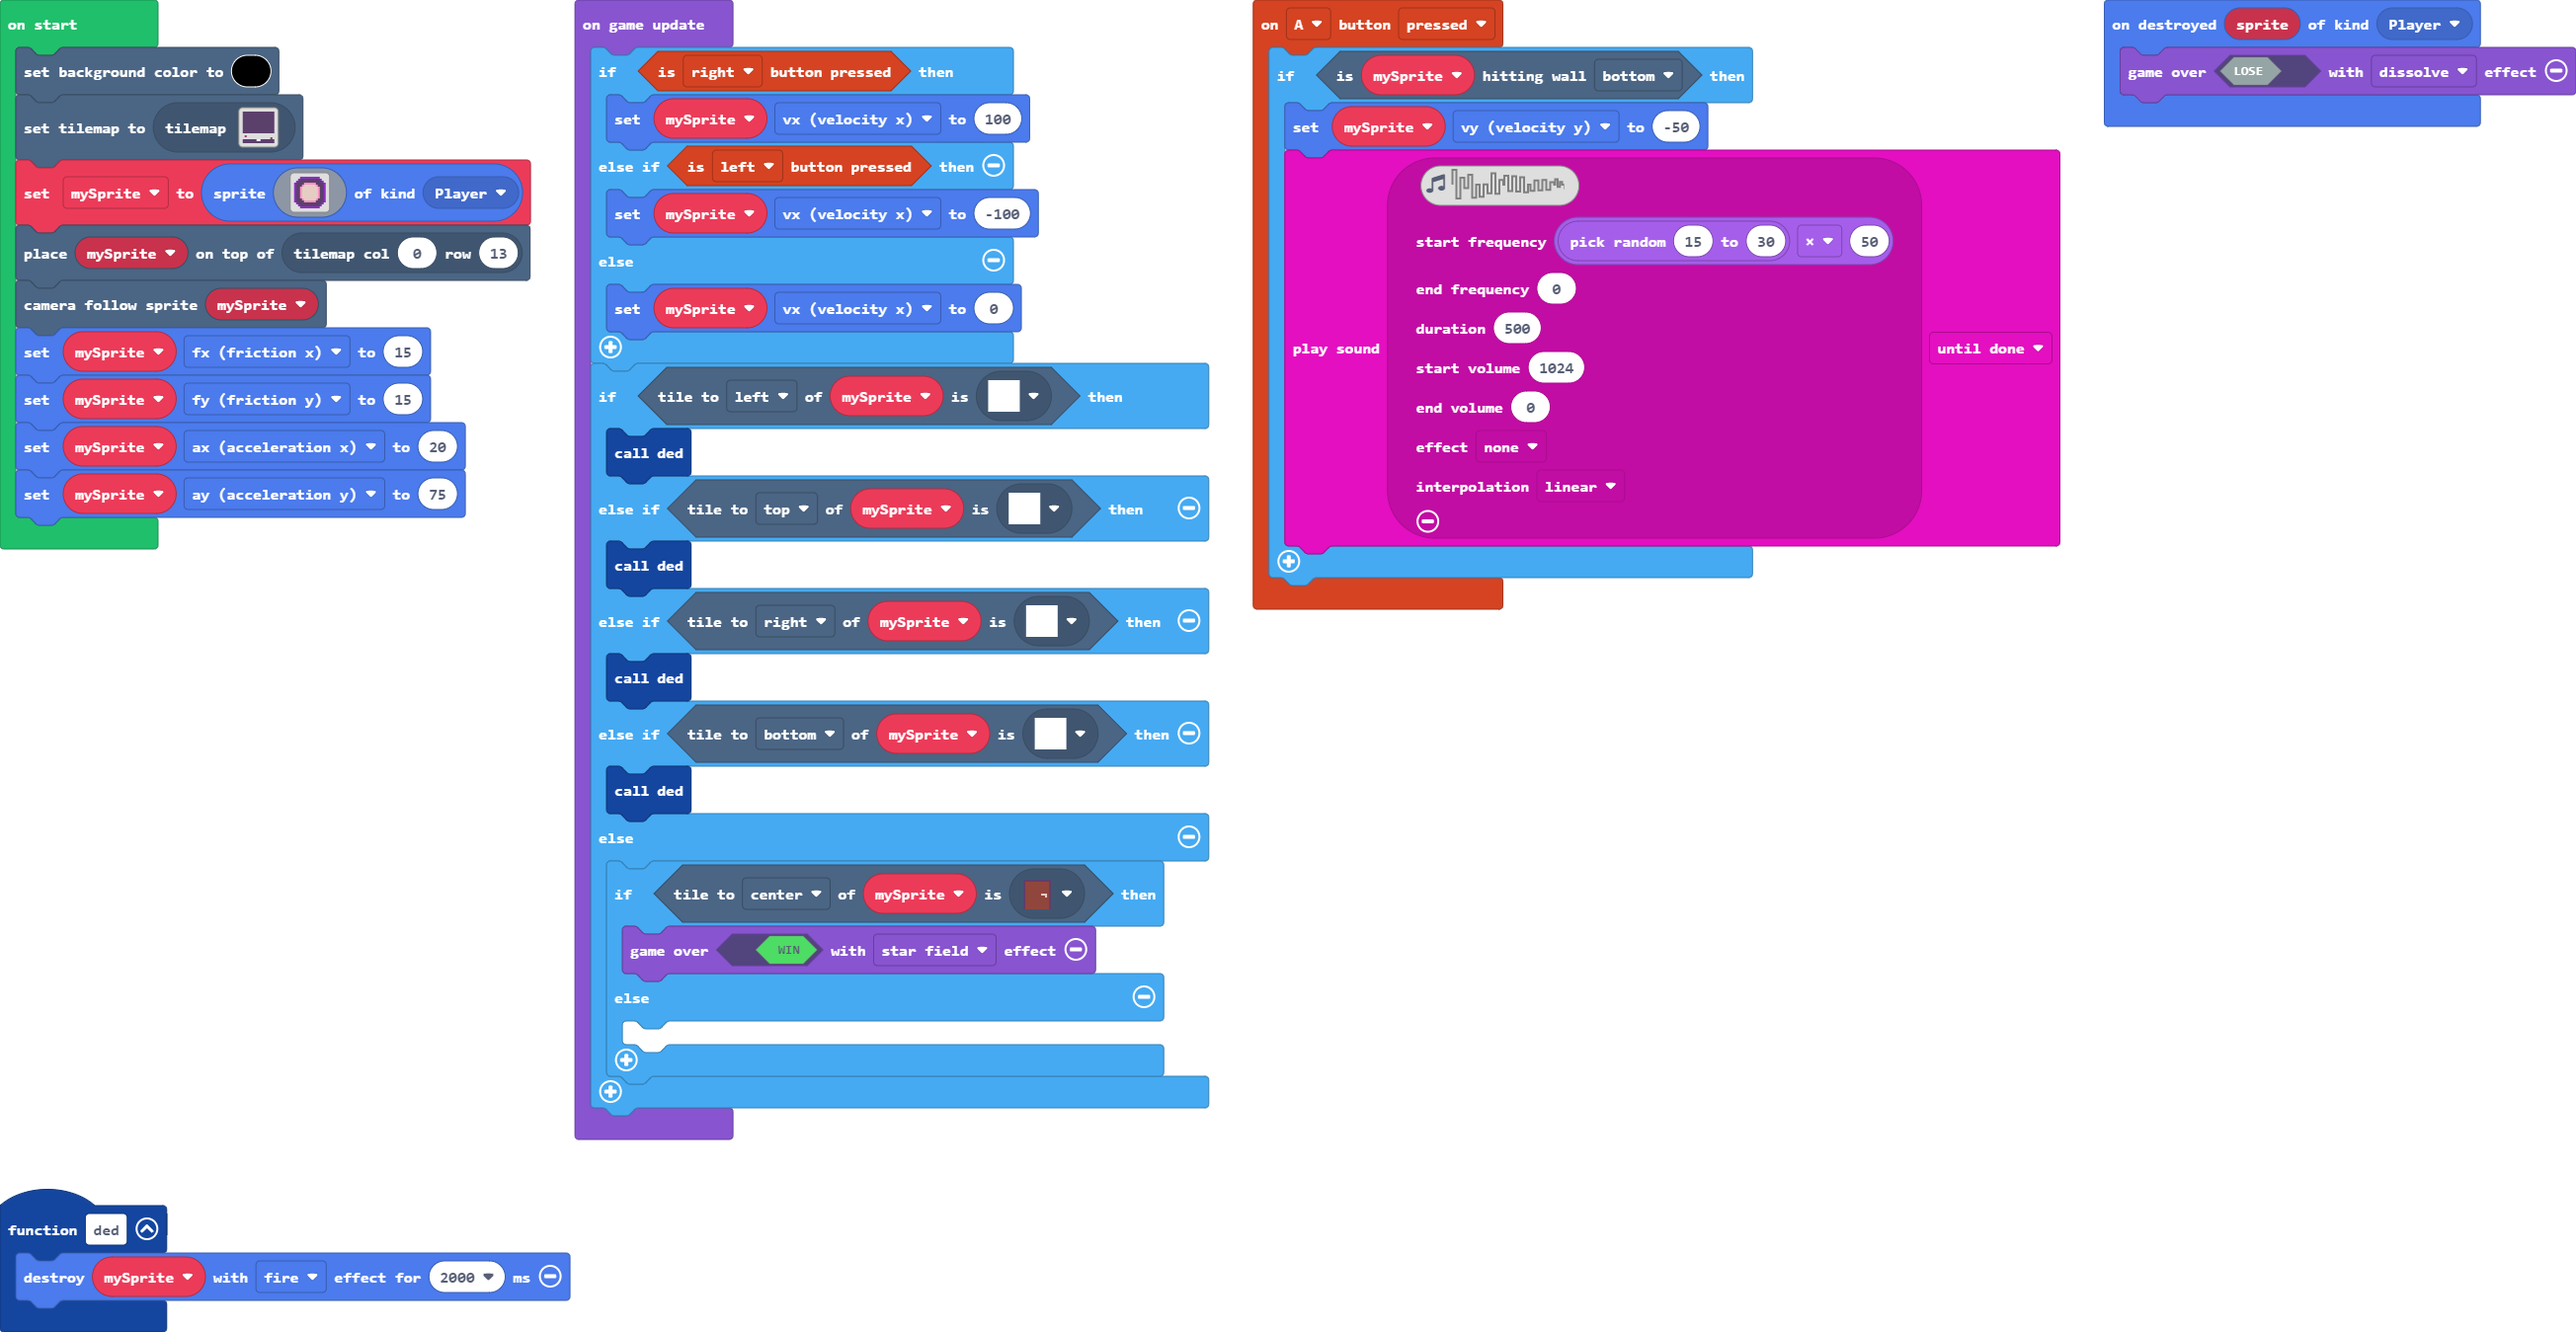
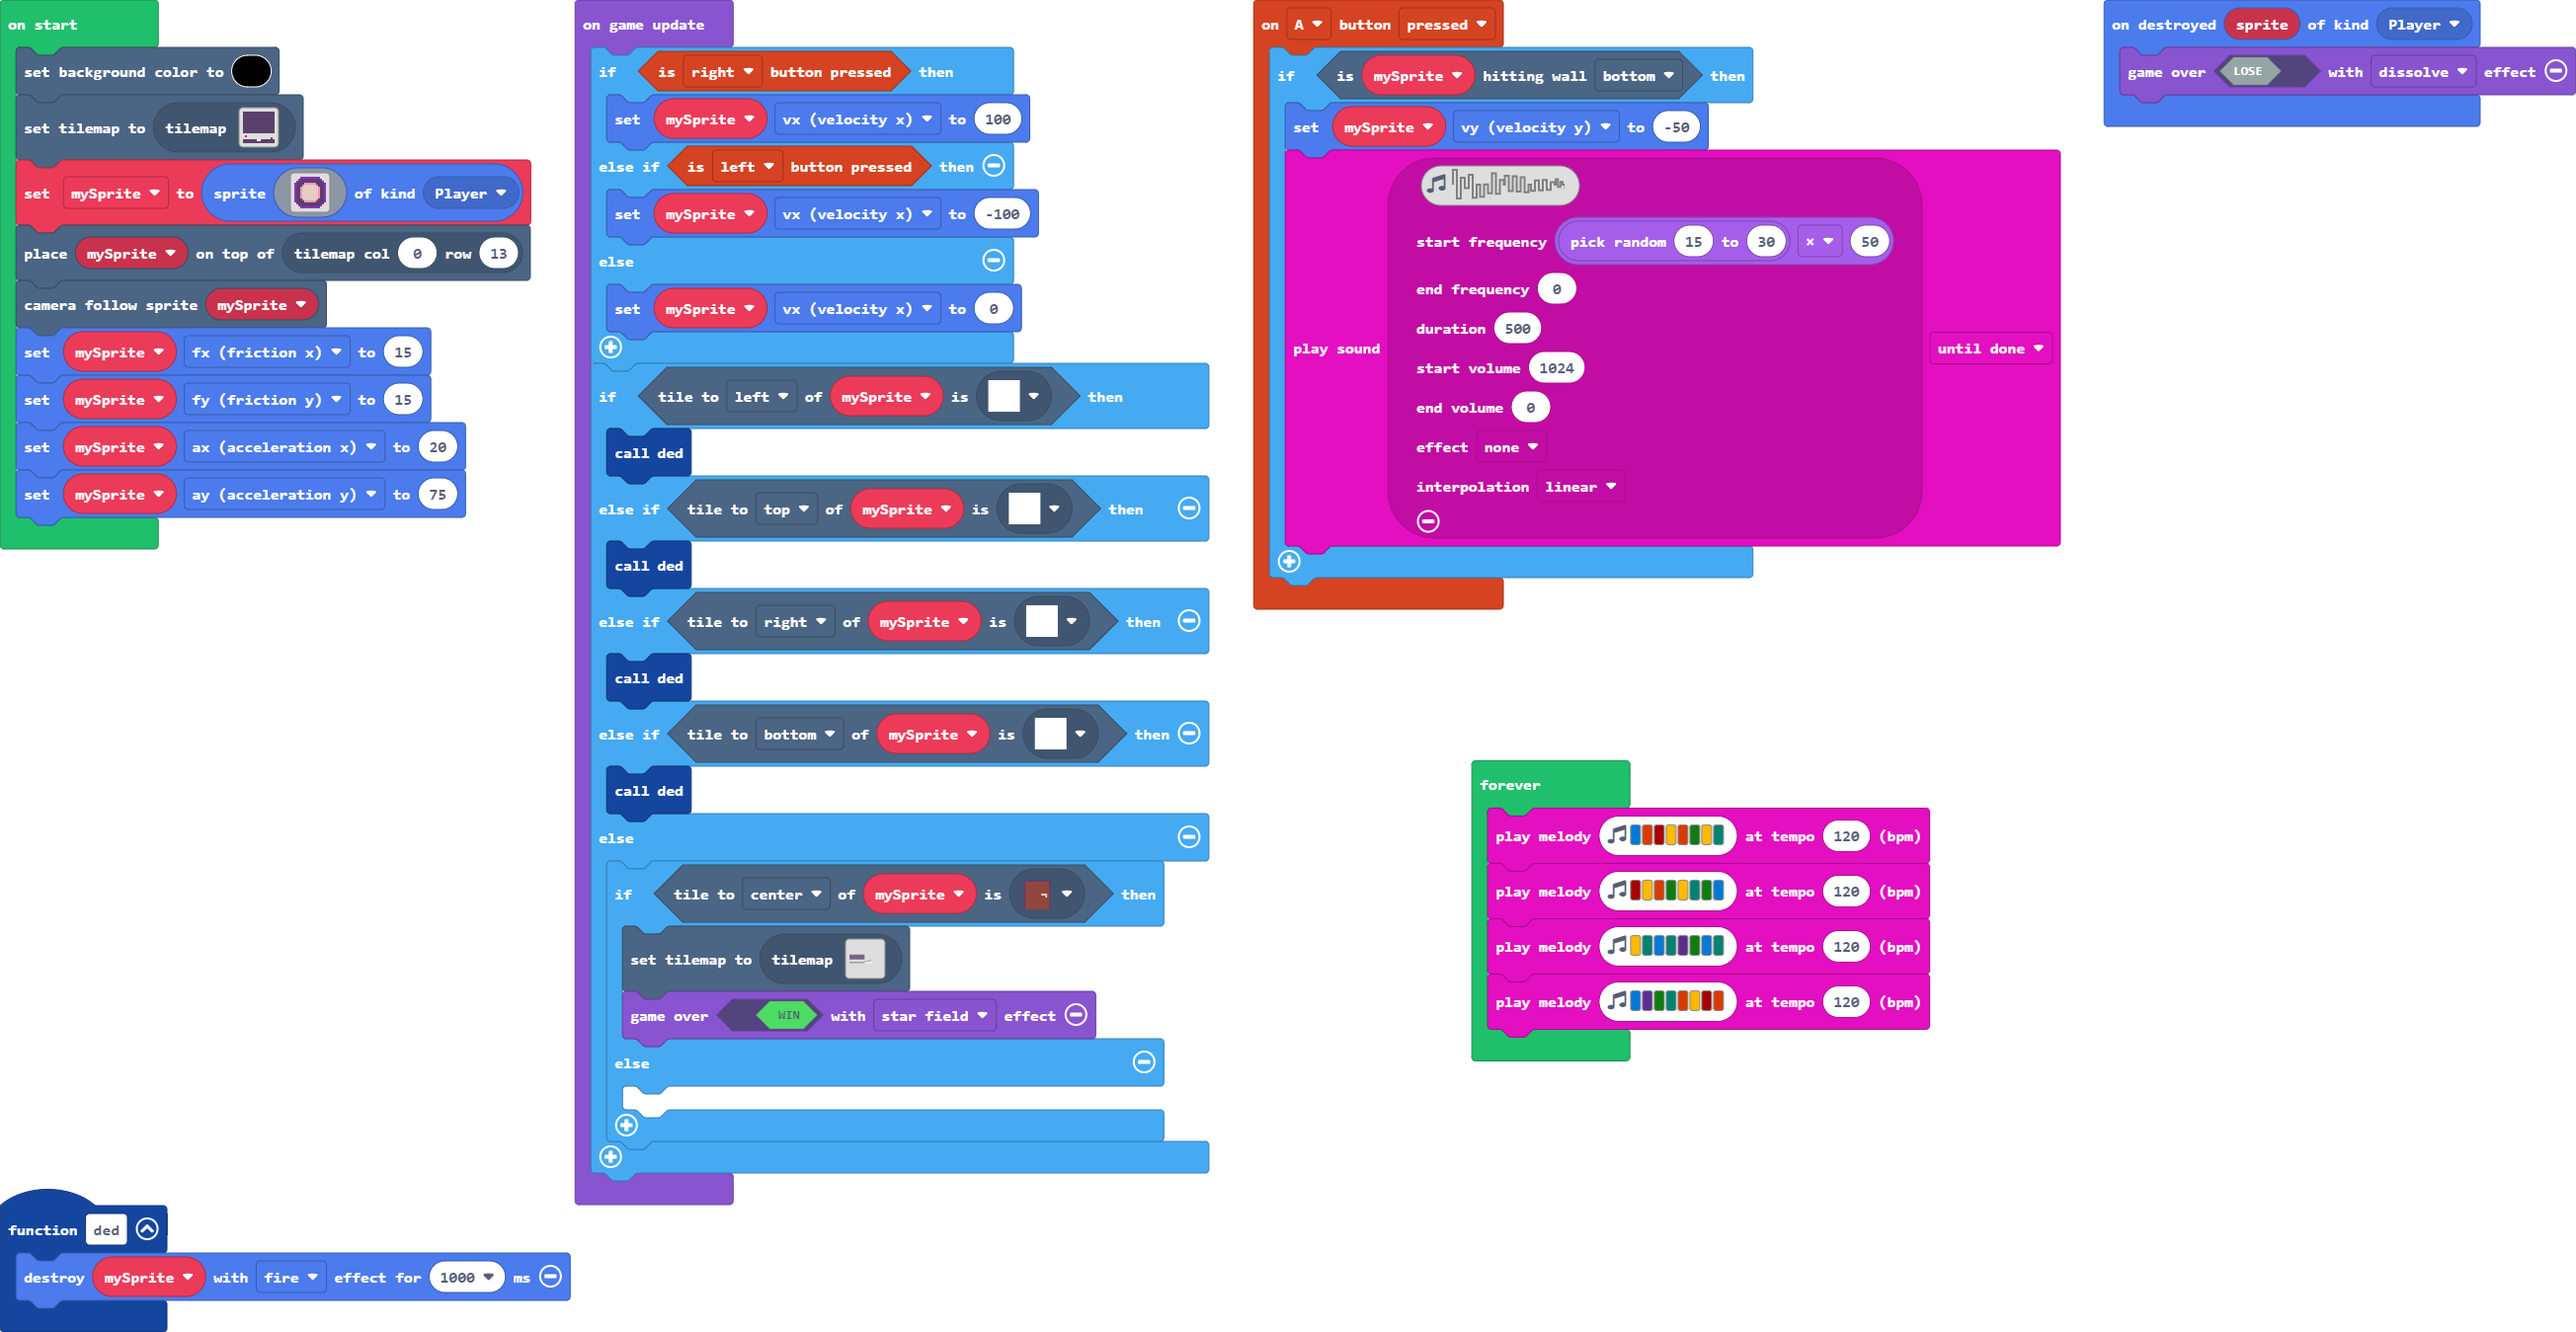
Added rudimentary music system and tried to make level transitions

Changed region(s): [[0.2174, 0.685, 0.4659, 0.9029], [0.559, 0.5604, 0.7765, 0.8095], [0.559, 0.1245, 0.5901, 0.1557]]

diff --git a/tilemap.g.ts b/tilemap.g.ts
@@ -32,6 +32,44 @@ namespace myTiles {
 2 2 2 2 2 2 2 2 2 2 2 2 2 2 2 2 
 2 2 2 2 2 2 2 2 2 2 2 2 2 2 2 2 
 `, [myTiles.transparency16,myTiles.tile1,myTiles.tile2,myTiles.tile3,myTiles.tile4], TileScale.Sixteen);
+            case "level1":
+            case "level1":return tiles.createTilemap(hex`4000100001010101010101010101010101010101010101010101010101010101010100000000000000000000000000000000000000000000000000000000000000000000010101010101010101010101010101010101010101010101010101010101000000000000000000000000000000000000000000000000000000000000000000000101010101010101010101010101010101010101010101010101010101010000000000000000000000000000000000000000000000000000000000000000000001010101010101010101010101010101010101010101010101010101010100000000000000000000000000000000000000000000000000000000000000000000010101010101010101010101010101010101010101010101010101010101000000000000000000000000000000000000000000000000000000000000000000000101010101010101010101010101010101010101010101010101010101010000000000000000000000000000000000000000000000000000000000000000000001010101010101010101010101010101010101010101010101010101010100000000000000000000000000000000000000000000000000000000000000000000010101010101010101010101010101010101010101010101010101010101000000000000000000000000000000000000000000000000000000000000000000000101010101010101010101010101010101010101010101010101010101010000000000000000000000000000000000000000000000000000000000000000000000000000000000000000000000000000000000000000000000000000000000000000000000000000000000000000000000000000000000000000000000000000000000000000000000000000000000000000000000000000000000000000000000000000000000000000030000000000000000000000000000000000000000000000000000000000000000000000000000000000000000000000000000000000000000000000000001000100000000000000000000000000000000000000000000000000000000000000000000000000000000000000000000000000000000000000000000010100000000000000000000000000000000000000000000000000000000000000000000000000000000000000000000000000000000000000000101010100000000000000000000000000000000000000000000000000000000000000000000000000000000000000000000000000000000000000000000000000000000000000000000000000000000000000000000000000000000000000000001010101010101010101010101010101010101010101010101010101010102020202020202020202020202020202000000000000000000000000000000000000`, img`
+222222222222222222222222222222..................................
+222222222222222222222222222222..................................
+222222222222222222222222222222..................................
+222222222222222222222222222222..................................
+222222222222222222222222222222..................................
+222222222222222222222222222222..................................
+222222222222222222222222222222..................................
+222222222222222222222222222222..................................
+222222222222222222222222222222..................................
+................................................................
+................................................................
+........................................2.2.....................
+.....................................22.........................
+...............................2222.............................
+................................................................
+2222222222222222222222222222222222222222222222..................
+`, [myTiles.transparency16,myTiles.tile1,myTiles.tile2,myTiles.tile3], TileScale.Sixteen);
+            case "level2":
+            case "level2":return tiles.createTilemap(hex`1000100000000000000000000000000000000000000000000000000000000000000000000000000000000000000000000000000000000000000000000000000000000000000000000000000000000000000000000000000000000000000000000000000000000000000000000000000000000000000000000000000000000000000000000000000000000000000000000000000000000000000000000000000000000000000000000000000000000000000000000000000000000000000000000000000000000000000000000000000000000000000000000000000000000000000000000000000000000000000000000000000000000000000000000000000000000000`, img`
+. . . . . . . . . . . . . . . . 
+. . . . . . . . . . . . . . . . 
+. . . . . . . . . . . . . . . . 
+. . . . . . . . . . . . . . . . 
+. . . . . . . . . . . . . . . . 
+. . . . . . . . . . . . . . . . 
+. . . . . . . . . . . . . . . . 
+. . . . . . . . . . . . . . . . 
+. . . . . . . . . . . . . . . . 
+. . . . . . . . . . . . . . . . 
+. . . . . . . . . . . . . . . . 
+. . . . . . . . . . . . . . . . 
+. . . . . . . . . . . . . . . . 
+. . . . . . . . . . . . . . . . 
+. . . . . . . . . . . . . . . . 
+. . . . . . . . . . . . . . . . 
+`, [myTiles.transparency16], TileScale.Sixteen);
         }
         return null;
     })

diff --git a/main.ts b/main.ts
@@ -14,7 +14,7 @@ controller.A.onEvent(ControllerButtonEvent.Pressed, function () {
     }
 })
 function ded () {
-    mySprite.destroy(effects.fire, 2000)
+    mySprite.destroy(effects.fire, 1000)
 }
 sprites.onDestroyed(SpriteKind.Player, function (sprite) {
     game.over(false, effects.dissolve)
@@ -47,9 +47,16 @@ game.onUpdate(function () {
         ded()
     } else {
         if (mySprite.tileKindAt(TileDirection.Center, assets.tile`door`)) {
+            tiles.setCurrentTilemap(tilemap`level1`)
             game.over(true, effects.starField)
         } else {
         	
         }
     }
+})
+forever(function () {
+    music.playMelody("E B C5 A B G A F ", 120)
+    music.playMelody("C5 A B G A F G E ", 120)
+    music.playMelody("A F E F D G E F ", 120)
+    music.playMelody("E D G F B A C5 B ", 120)
 })
